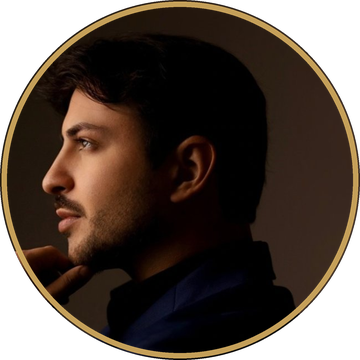
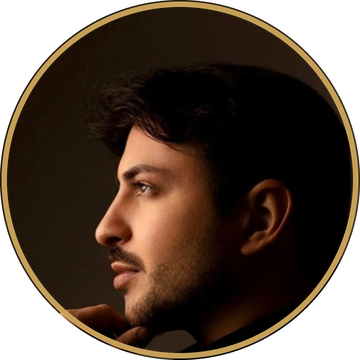
Assinatura Gabriel: rosto centralizado

diff --git a/assinatura/index.html b/assinatura/index.html
@@ -7,7 +7,7 @@ button{border:0;background:#0B2A26;color:#E8CC8B;font-weight:700;font-size:14px;
 <section class="c"><div class="h"><div><b>Gabriel Abreu</b><span>Diretor Comercial</span></div><button onclick="copiar('gabriel',this)">Copiar assinatura</button></div><div class="sig" id="s-gabriel"><table cellpadding="0" cellspacing="0" border="0" width="600" style="width:600px;max-width:600px;border-collapse:separate;font-family:Arial,Helvetica,sans-serif;">
 <tr><td style="background-color:#0B2A26;padding:22px 24px 22px 24px;border-radius:16px 16px 0 0;">
 <table cellpadding="0" cellspacing="0" border="0" width="100%" style="border-collapse:collapse;"><tr>
-<td valign="middle" width="96" style="width:96px;padding:0;"><img src="https://www.agionconsorcios.com.br/assinatura/foto-gabriel.png?v=2" width="92" height="92" alt="Gabriel Abreu" style="display:block;border:0;width:92px;height:92px;"></td>
+<td valign="middle" width="96" style="width:96px;padding:0;"><img src="https://www.agionconsorcios.com.br/assinatura/foto-gabriel.png?v=3" width="92" height="92" alt="Gabriel Abreu" style="display:block;border:0;width:92px;height:92px;"></td>
 <td valign="middle" style="padding:0 0 0 20px;">
 <div style="font-family:Georgia,'Times New Roman',serif;font-size:14px;line-height:19px;color:#C9D8D2;margin:0;">Atenciosamente,</div>
 <div style="font-family:Georgia,'Times New Roman',serif;font-size:26px;line-height:32px;color:#FFFFFF;margin:2px 0 0 0;">Gabriel Abreu</div>

diff --git a/assinatura/gabriel.html b/assinatura/gabriel.html
@@ -1,7 +1,7 @@
 <!doctype html><meta charset="utf-8"><title>Assinatura · Gabriel Abreu</title><body style="margin:24px;background:#fff"><table cellpadding="0" cellspacing="0" border="0" width="600" style="width:600px;max-width:600px;border-collapse:separate;font-family:Arial,Helvetica,sans-serif;">
 <tr><td style="background-color:#0B2A26;padding:22px 24px 22px 24px;border-radius:16px 16px 0 0;">
 <table cellpadding="0" cellspacing="0" border="0" width="100%" style="border-collapse:collapse;"><tr>
-<td valign="middle" width="96" style="width:96px;padding:0;"><img src="https://www.agionconsorcios.com.br/assinatura/foto-gabriel.png?v=2" width="92" height="92" alt="Gabriel Abreu" style="display:block;border:0;width:92px;height:92px;"></td>
+<td valign="middle" width="96" style="width:96px;padding:0;"><img src="https://www.agionconsorcios.com.br/assinatura/foto-gabriel.png?v=3" width="92" height="92" alt="Gabriel Abreu" style="display:block;border:0;width:92px;height:92px;"></td>
 <td valign="middle" style="padding:0 0 0 20px;">
 <div style="font-family:Georgia,'Times New Roman',serif;font-size:14px;line-height:19px;color:#C9D8D2;margin:0;">Atenciosamente,</div>
 <div style="font-family:Georgia,'Times New Roman',serif;font-size:26px;line-height:32px;color:#FFFFFF;margin:2px 0 0 0;">Gabriel Abreu</div>
